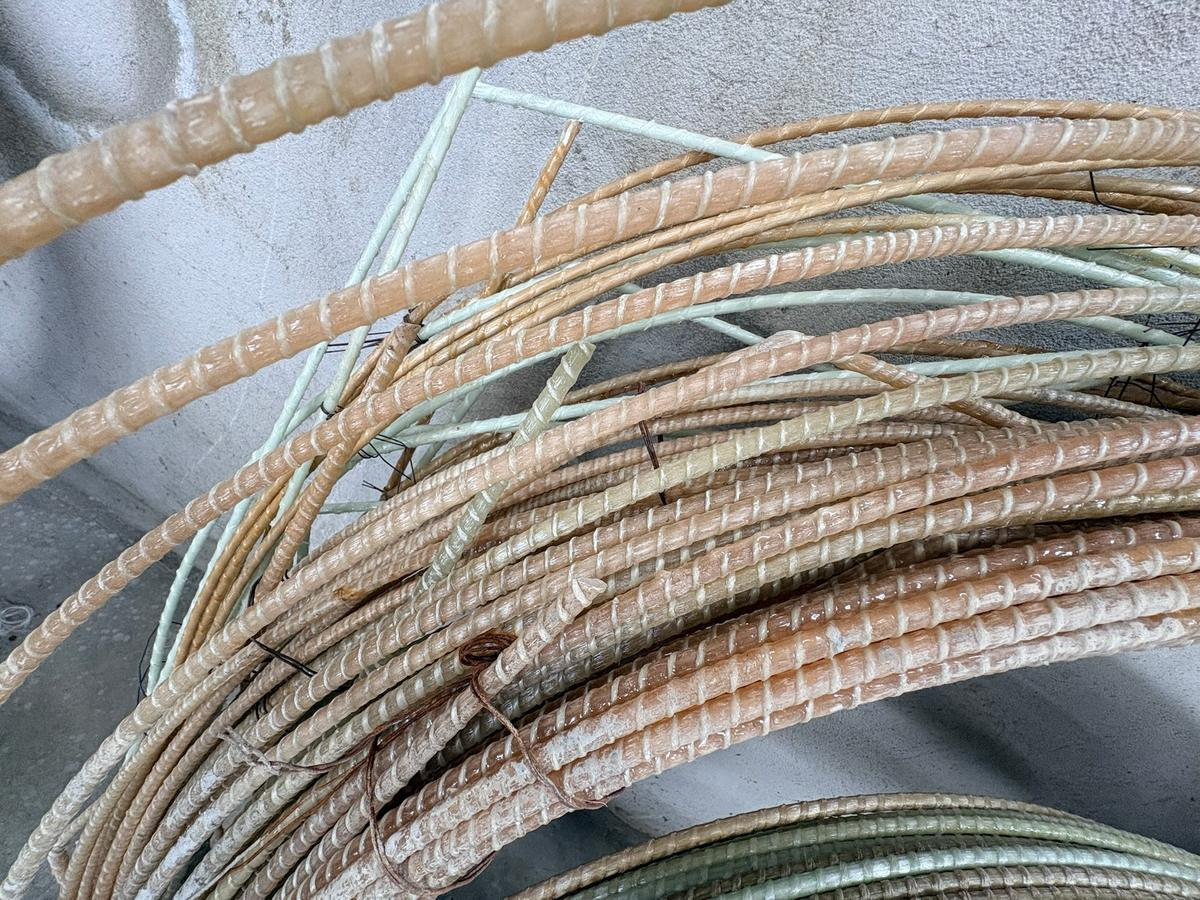
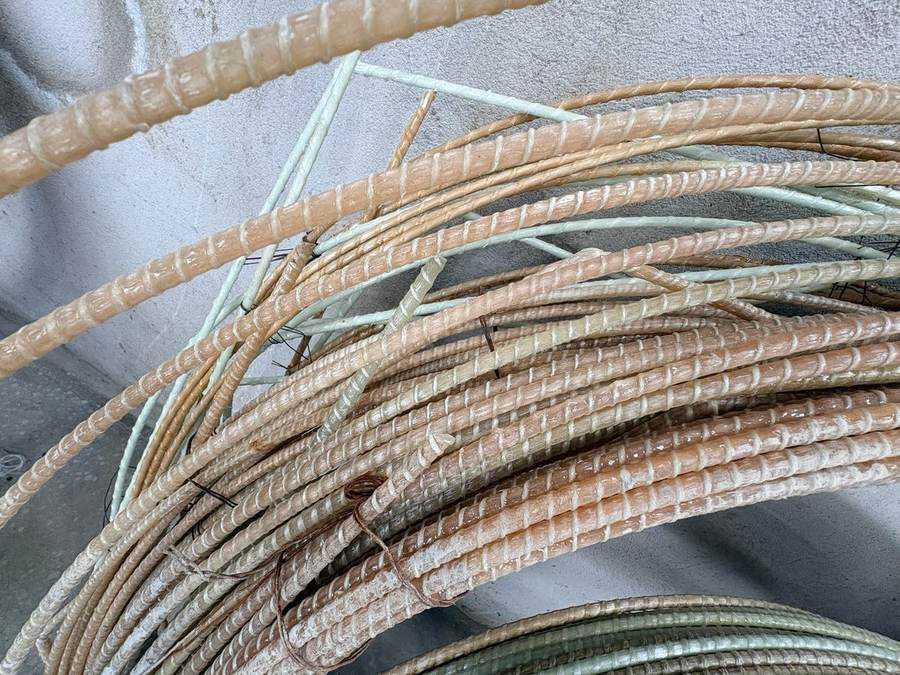
SEO: social preview image, LocalBusiness schema, lighter assets
- og:image and twitter:image were missing entirely, so every WhatsApp and
  LinkedIn share of the site rendered as a bare link with no picture. Since
  WhatsApp is the primary channel for these leads, that was the most costly
  gap on the site. Generated a 1200x630 preview from the Pithampur hero.
- Organization upgraded to Organization + LocalBusiness with the full postal
  address, telephone, email, areaServed and sameAs. This is what a search
  engine reads for a geographic query like "GFRP rebar machine India".
- The organisation graph now renders on every page, not only the homepage.
- apple-touch-icon added.
- bar-surface was 238KB after WebP conversion, the heaviest asset on the
  site; recompressed to 130KB.

diff --git a/components/Jsonld.tsx b/components/Jsonld.tsx
@@ -12,16 +12,35 @@ export function Jsonld({ data }: { data: Record<string, unknown> }) {
 
 export const organisation = {
   "@context": "https://schema.org",
-  "@type": "Organization",
+  "@type": ["Organization", "LocalBusiness"],
+  "@id": `${SITE_URL}/#organisation`,
   name: SITE_NAME,
   legalName: ORG_LEGAL_NAME,
   url: SITE_URL,
+  logo: `${SITE_URL}/img/og.jpg`,
+  image: `${SITE_URL}/img/og.jpg`,
+  telephone: "+91-95300-13034",
+  email: "partner@gfrpindia.com",
   address: {
     "@type": "PostalAddress",
+    streetAddress: "Plot 8B & 8C, Sector 3, Pithampur",
     addressLocality: "Pithampur",
     addressRegion: "Madhya Pradesh",
+    postalCode: "454775",
     addressCountry: "IN",
   },
+  areaServed: { "@type": "Country", name: "India" },
+  sameAs: [
+    "https://www.youtube.com/@compositetechrebar66",
+    "https://composite-tech.com",
+    "https://rebarx.in",
+  ],
+  knowsAbout: [
+    "GFRP rebar manufacturing",
+    "Pultrusion production lines",
+    "IS 18256",
+    "Composite reinforcement",
+  ],
   description:
     "India partner for Composite Tech GFRP rebar production lines. We manufacture GFRP rebar in Pithampur on the same line we sell.",
 };

diff --git a/app/layout.tsx b/app/layout.tsx
@@ -21,8 +21,17 @@ export const metadata: Metadata = {
     siteName: SITE_NAME,
     locale: "en_IN",
     url: SITE_URL,
+    images: [{ url: "/img/og.jpg", width: 1200, height: 630,
+               alt: "Composite Tech GFRP rebar production line running at Pithampur" }],
   },
-  twitter: { card: "summary_large_image" },
+  twitter: {
+    card: "summary_large_image",
+    images: ["/img/og.jpg"],
+  },
+  icons: {
+    icon: "/favicon.ico",
+    apple: "/img/og.jpg",
+  },
   robots: { index: true, follow: true },
 };
 

diff --git a/components/Spread.tsx b/components/Spread.tsx
@@ -1,5 +1,6 @@
 import Image from "next/image";
 import { Nav, Foot } from "@/components/Chrome";
+import { Jsonld, organisation } from "@/components/Jsonld";
 
 export function Spread({
   here, eyebrow, title, answer, img, alt, cap, children, note,
@@ -9,6 +10,7 @@ export function Spread({
 }) {
   return (
     <>
+      <Jsonld data={organisation} />
       <Nav here={here} />
       <main>
         <section className="sp">
